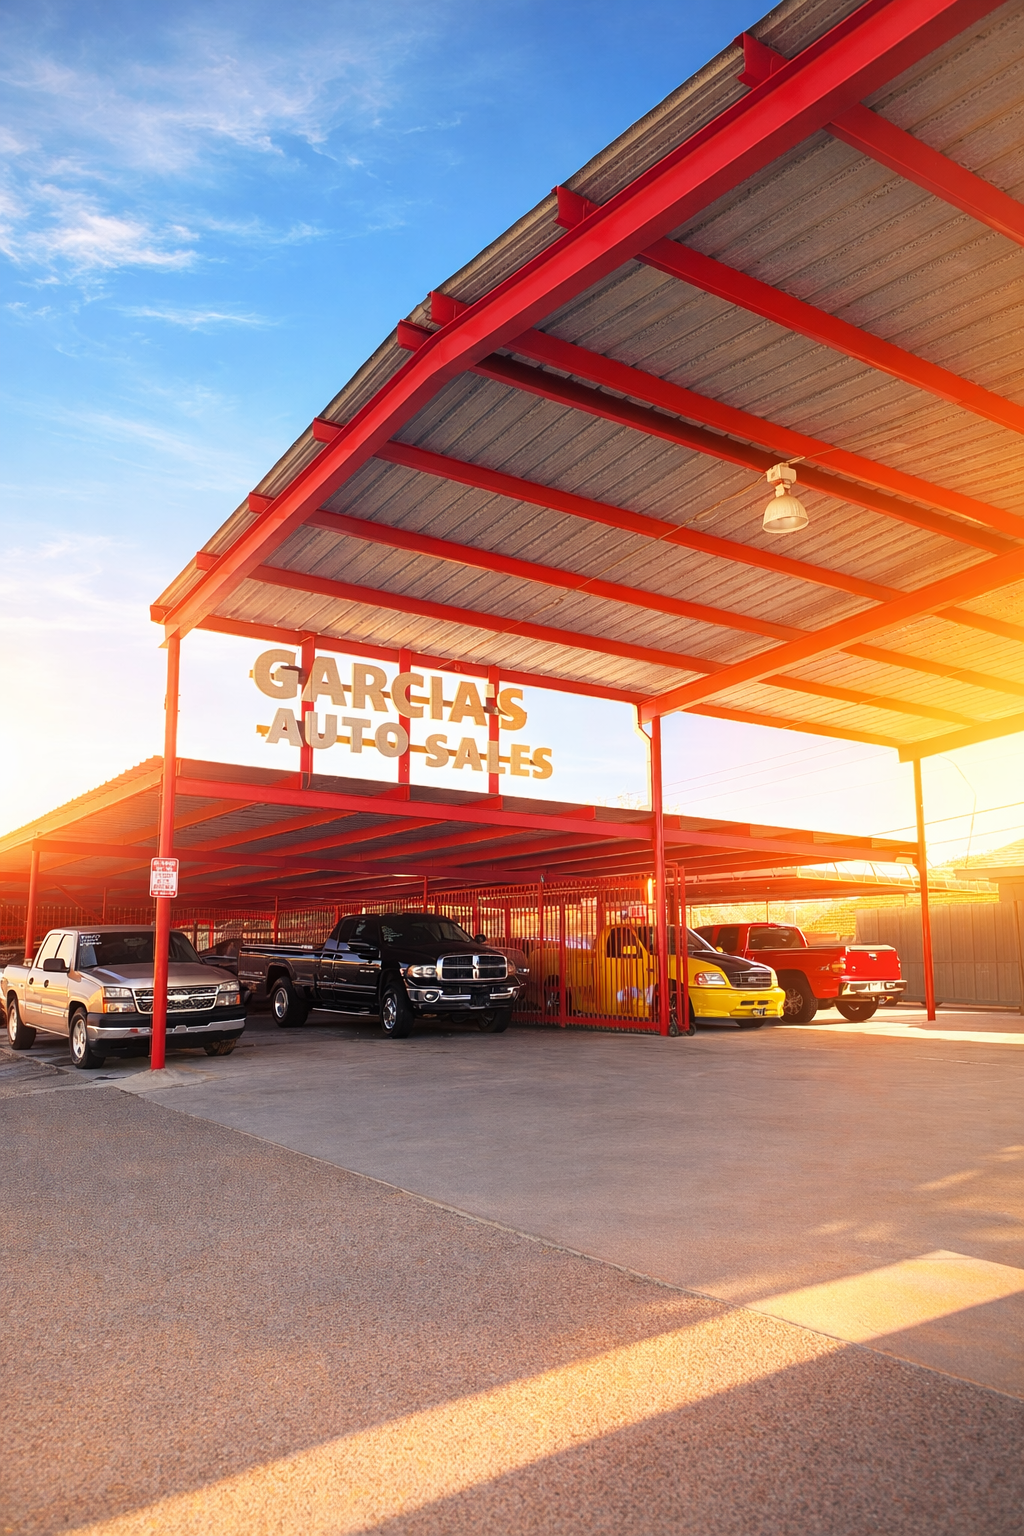
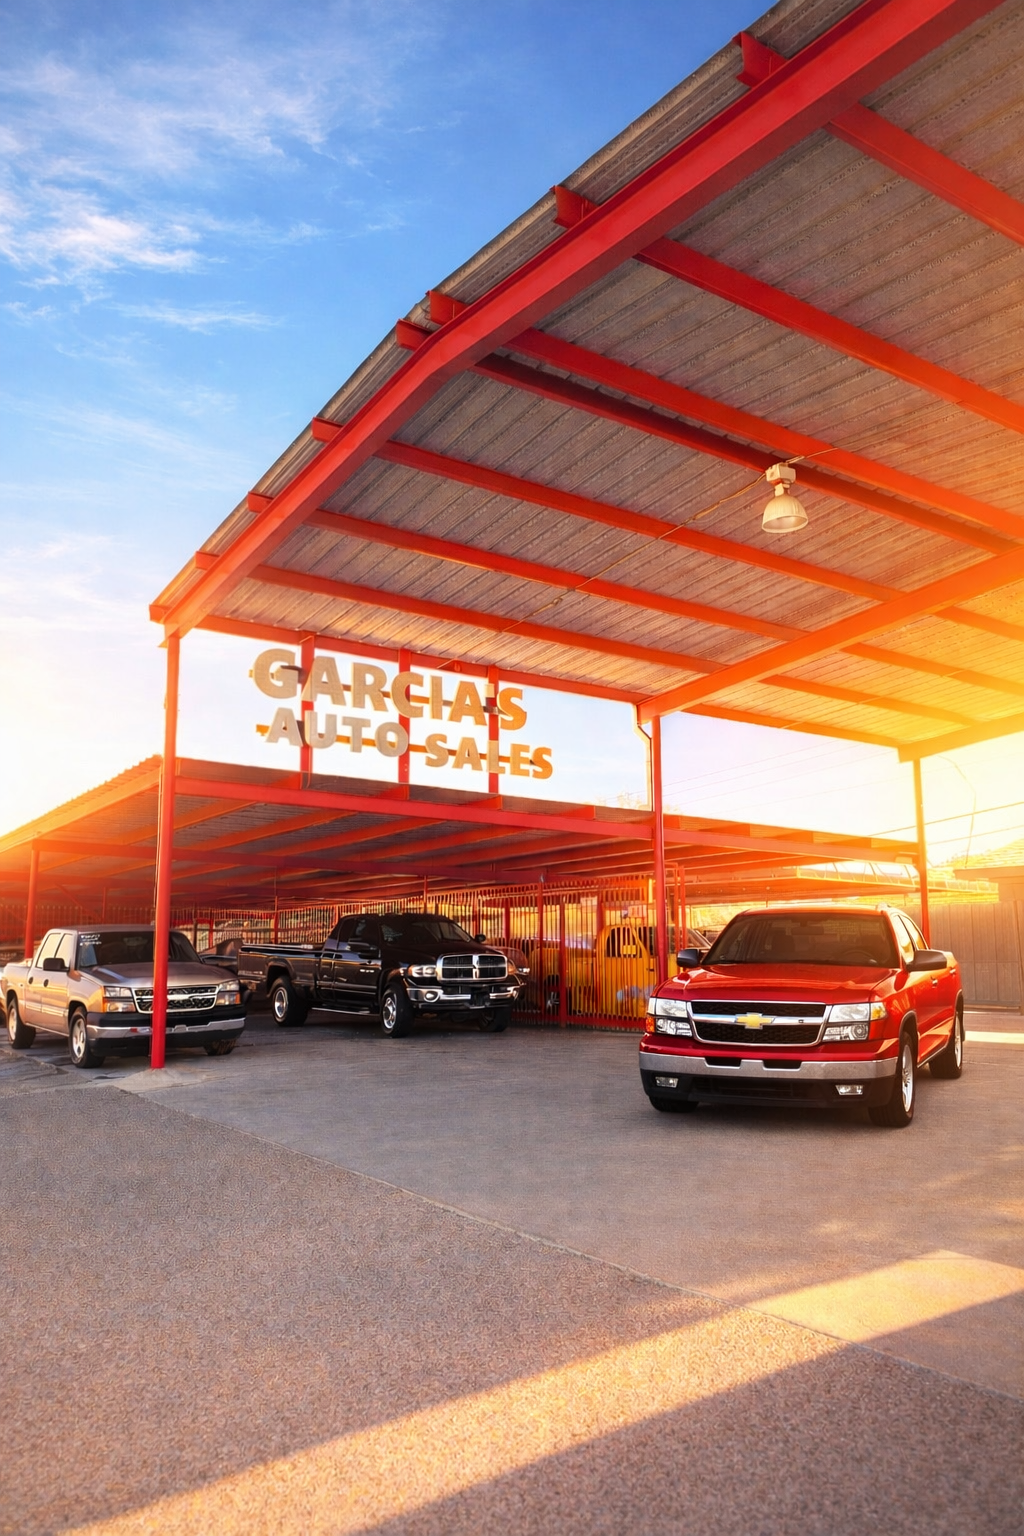
background wider

diff --git a/app/page.tsx b/app/page.tsx
@@ -17,7 +17,7 @@ export default function Home() {
   return (
     <main className="min-h-screen bg-black text-white">
       {/* HERO */}
-      <section className="relative overflow-hidden rounded-3xl border border-zinc-800 bg-gradient-to-b from-zinc-950 to-black p-8 md:p-14">
+      <section className="relative overflow-hidden rounded-3xl border border-zinc-800 bg-gradient-to-b from-zinc-950 to-black p-8 md:p-14 min-h-[500px]">
         <div className="absolute inset-0 z-10">
           <img src="/garcias.png" alt="Background" className="h-full w-full object-cover opacity-60" />
           <div className="absolute inset-0 bg-black/40" />
